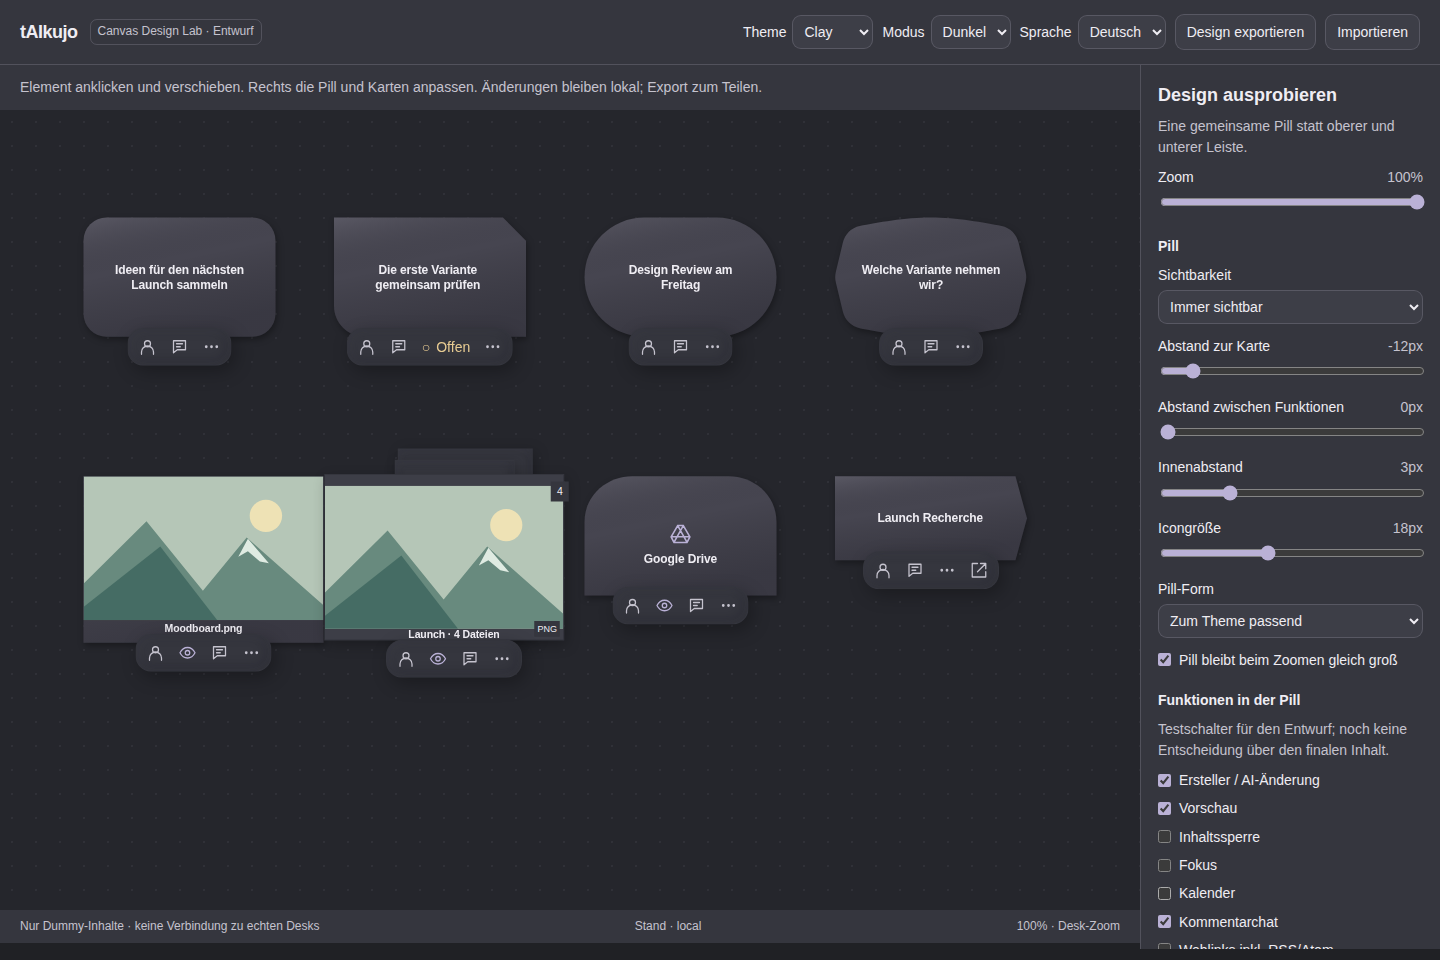
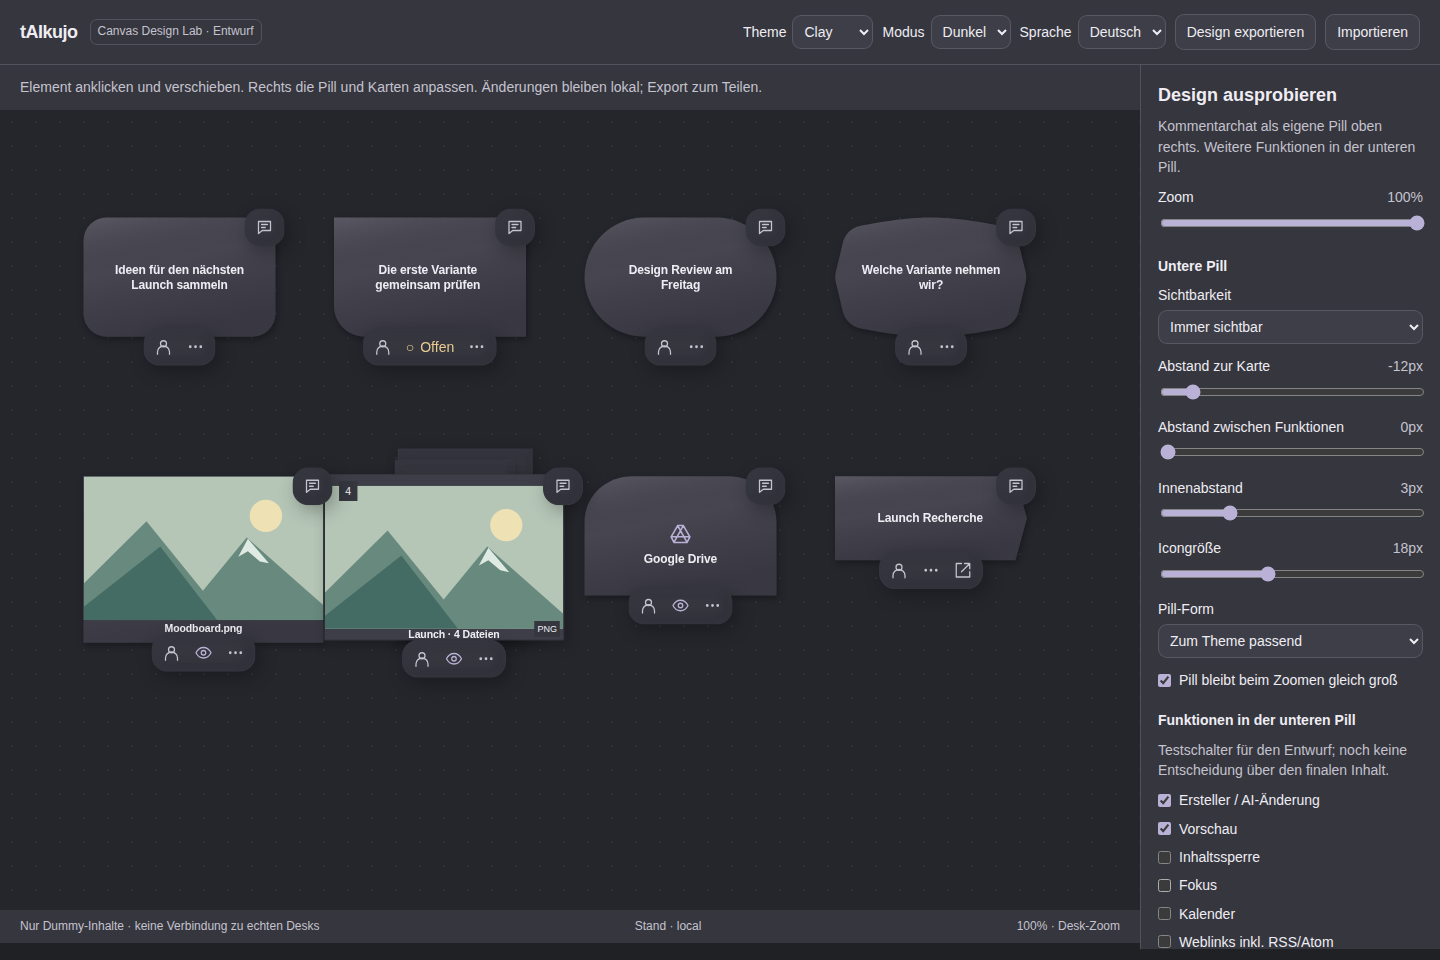
design: move comment chat into its own top-right pill

diff --git a/index.html b/index.html
@@ -1,5 +1,5 @@
 <!doctype html>
-<html lang="de" data-skin="clay" data-theme="dark" data-preview-revision="62d8ae0edd5b">
+<html lang="de" data-skin="clay" data-theme="dark" data-preview-revision="c5b5195cf4e4">
 <head>
 <meta charset="utf-8">
 <meta name="viewport" content="width=device-width,initial-scale=1">
@@ -324,6 +324,8 @@ main{display:grid;grid-template-columns:minmax(0,1fr) 300px;min-height:calc(100d
 .viewport{position:relative;flex:1;min-height:500px;max-height:calc(100dvh - 160px);overflow:auto;background-color:var(--canvas);background-image:radial-gradient(var(--canvas-grid) 1px,transparent 1px);background-size:24px 24px;overscroll-behavior:contain}
 .extent{position:relative;margin:34px}.world{position:absolute;left:0;top:0;width:1400px;height:860px;transform-origin:0 0;isolation:isolate}
 .area{position:absolute;inset:20px 20px 40px;border:1px dashed var(--accent);background:color-mix(in srgb,var(--accent) 4%,transparent);border-radius:var(--radius-lg);pointer-events:none}.area-label{position:absolute;top:-30px;left:14px;color:var(--muted)}
+.chat-pill-anchor{position:absolute;right:-12px;top:-12px;transform:scale(var(--pill-scale));transform-origin:100% 0;z-index:6;cursor:default;pointer-events:auto}
+.chat-pill{min-width:36px;justify-content:center}.chat-pill button{color:var(--text)}
 .node{position:absolute;width:var(--card-width);height:var(--card-height);touch-action:none;cursor:grab;user-select:none}.node.dragging{cursor:grabbing;z-index:20}.node.selected{z-index:10}
 .surface{width:100%;height:100%;position:relative;display:flex;align-items:center;justify-content:center;padding:4px 20px;background:transparent;border:0;border-radius:0}
 .node-shape{position:absolute;inset:0;width:100%;height:100%;overflow:visible;pointer-events:none;filter:var(--shadow-node)}
@@ -345,7 +347,7 @@ main{display:grid;grid-template-columns:minmax(0,1fr) 300px;min-height:calc(100d
 .stack-cover svg{width:100%;height:100%;max-height:100%;background:var(--panel-2)}.stack-cover-type{position:absolute;right:5px;bottom:4px;font-size:var(--type-caption-size);background:var(--panel);padding:2px 4px}
 .stack-cover-fallback{padding:18px;white-space:pre-line;text-align:left;color:var(--muted);font-family:var(--font-mono);font-size:14px}
 .node[data-kind="stack"] .file-title{position:relative;z-index:4}.node[data-kind="stack"].selected .stack-cover{border-color:var(--accent)}
-.stack-count{position:absolute;right:7px;top:7px;background:var(--panel);padding:3px 8px;border-radius:0;z-index:5}
+.stack-count{position:absolute;left:7px;top:7px;background:var(--panel);padding:3px 8px;border-radius:0;z-index:5}
 
 .pill-anchor{position:absolute;left:50%;top:calc(100% + var(--pill-offset));transform:translateX(-50%) scale(var(--pill-scale));transform-origin:50% 0;z-index:3;cursor:default;max-width:none}
 .pill{display:flex;align-items:center;gap:var(--pill-gap);padding:var(--pill-padding);border:1px solid var(--border-soft);border-radius:var(--pill-radius);background:var(--panel);box-shadow:var(--shadow-menu);white-space:nowrap;min-height:32px}
@@ -403,7 +405,7 @@ dialog{max-width:min(90vw,700px);width:640px;color:var(--text);background:var(--
 const VERSION=1, PREVIEW_REVISION=document.documentElement.dataset.previewRevision||'local', STORAGE='taikujo.canvas-design-lab.v1.'+PREVIEW_REVISION;
 const copy={
 revision:['Stand','Revision'],lab:['Canvas Design Lab · Entwurf','Canvas Design Lab · Draft'],theme:['Theme','Theme'],mode:['Modus','Mode'],dark:['Dunkel','Dark'],light:['Hell','Light'],language:['Sprache','Language'],export:['Design exportieren','Export design'],import:['Importieren','Import'],
-hint:['Element anklicken und verschieben. Rechts die Pill und Karten anpassen. Änderungen bleiben lokal; Export zum Teilen.','Click and drag an element. Adjust the pill and cards on the right. Changes stay local; export to share.'],dummy:['Nur Dummy-Inhalte · keine Verbindung zu echten Desks','Dummy content only · no connection to real Desks'],settings:['Design ausprobieren','Try the design'],local:['Eine gemeinsame Pill statt oberer und unterer Leiste.','One shared pill replaces the upper and lower bars.'],zoom:['Zoom','Zoom'],pill:['Pill','Pill'],visibility:['Sichtbarkeit','Visibility'],always:['Immer sichtbar','Always visible'],hover:['Bei Hover oder Auswahl','On hover or selection'],offset:['Abstand zur Karte','Distance from card'],gap:['Abstand zwischen Funktionen','Spacing between actions'],padding:['Innenabstand','Padding'],iconSize:['Icongröße','Icon size'],radius:['Pill-Form','Pill shape'],themeRadius:['Zum Theme passend','Match theme'],round:['Rund','Round'],square:['Eckig','Square'],constant:['Pill bleibt beim Zoomen gleich groß','Keep pill size constant while zooming'],functions:['Funktionen in der Pill','Pill actions'],functionsHint:['Testschalter für den Entwurf; noch keine Entscheidung über den finalen Inhalt.','Draft toggles; the final pill content is still undecided.'],creator:['Ersteller / AI-Änderung','Creator / AI change'],preview:['Vorschau','Preview'],lock:['Inhaltssperre','Content lock'],focus:['Fokus','Focus'],calendar:['Kalender','Calendar'],chat:['Kommentarchat','Comment chat'],links:['Weblinks inkl. RSS/Atom','Web links incl. RSS/Atom'],checklist:['Checklistenfortschritt','Checklist progress'],status:['Aufgabenstatus','Task status'],menu:['Weitere Funktionen','More actions'],elements:['Elemente','Elements'],width:['Kartenbreite','Card width'],height:['Kartenhöhe','Card height'],titleSize:['Titelgröße','Title size'],titleLines:['Titelzeilen','Title lines'],tracking:['Buchstabenabstand','Letter spacing'],area:['Bereich anzeigen','Show area'],selected:['Ausgewähltes Element','Selected element'],selectHint:['Klicke eine Karte an, um ihren Text zu testen.','Click a card to try different text.'],title:['Titel','Title'],note:['Notiz','Note'],taskState:['Aufgabenstatus','Task status'],open:['Offen','Open'],done:['Erledigt','Done'],reset:['Zurücksetzen','Reset'],close:['Schließen','Close'],saved:['Design als JSON exportiert.','Design exported as JSON.'],loaded:['Design importiert.','Design imported.'],invalid:['Diese Datei ist kein gültiger Design-Export.','This file is not a valid design export.'],importError:['Die Datei konnte nicht gelesen werden.','The file could not be read.'],unsaved:['Lokales Speichern nicht verfügbar. Bitte exportieren.','Local storage unavailable. Please export.'],research:['Recherche','Research'],empty:['Keine Notiz vorhanden.','No note yet.'],demoChat:['Alex: Schau dir bitte diese Variante an.\nAI Worker: Hier könnte später die Antwort stehen.','Alex: Please take a look at this version.\nAI Worker: A reply could appear here later.'],demoLinks:['Webseite · Beispiel-Link\nRSS/Atom · Beispiel-Feed mit Artikelliste\n\nIn diesem Entwurf wird nichts extern abgerufen.','Website · Example link\nRSS/Atom · Example feed with an article list\n\nThis draft makes no external requests.'],demoCalendar:['16. Oktober · Review\n18. Oktober · Freigabe','16 October · Review\n18 October · Approval'],demoMenu:['Eigenschaften, Freigaben und weitere Aktionen gestalten wir im nächsten Schritt.','We will design properties, permissions and other actions in the next step.'],desk:['Desk öffnen','Open Desk'],demoDesk:['Ein Desk-Verweis würde den verlinkten Desk öffnen.','A Desk reference would open the linked Desk.'],stack:['Stapel öffnen','Open stack'],demoStack:['Moodboard.png\nBriefing.md\nEntwurf.pdf\nFoto.heic','Moodboard.png\nBriefing.md\nDraft.pdf\nPhoto.heic']
+hint:['Element anklicken und verschieben. Rechts die Pill und Karten anpassen. Änderungen bleiben lokal; Export zum Teilen.','Click and drag an element. Adjust the pill and cards on the right. Changes stay local; export to share.'],dummy:['Nur Dummy-Inhalte · keine Verbindung zu echten Desks','Dummy content only · no connection to real Desks'],settings:['Design ausprobieren','Try the design'],local:['Kommentarchat als eigene Pill oben rechts. Weitere Funktionen in der unteren Pill.','Comment chat in its own top-right pill. Other actions in the lower pill.'],zoom:['Zoom','Zoom'],pill:['Untere Pill','Lower pill'],visibility:['Sichtbarkeit','Visibility'],always:['Immer sichtbar','Always visible'],hover:['Bei Hover oder Auswahl','On hover or selection'],offset:['Abstand zur Karte','Distance from card'],gap:['Abstand zwischen Funktionen','Spacing between actions'],padding:['Innenabstand','Padding'],iconSize:['Icongröße','Icon size'],radius:['Pill-Form','Pill shape'],themeRadius:['Zum Theme passend','Match theme'],round:['Rund','Round'],square:['Eckig','Square'],constant:['Pill bleibt beim Zoomen gleich groß','Keep pill size constant while zooming'],functions:['Funktionen in der unteren Pill','Lower pill actions'],functionsHint:['Testschalter für den Entwurf; noch keine Entscheidung über den finalen Inhalt.','Draft toggles; the final pill content is still undecided.'],creator:['Ersteller / AI-Änderung','Creator / AI change'],preview:['Vorschau','Preview'],lock:['Inhaltssperre','Content lock'],focus:['Fokus','Focus'],calendar:['Kalender','Calendar'],chat:['Kommentarchat','Comment chat'],links:['Weblinks inkl. RSS/Atom','Web links incl. RSS/Atom'],checklist:['Checklistenfortschritt','Checklist progress'],status:['Aufgabenstatus','Task status'],menu:['Weitere Funktionen','More actions'],elements:['Elemente','Elements'],width:['Kartenbreite','Card width'],height:['Kartenhöhe','Card height'],titleSize:['Titelgröße','Title size'],titleLines:['Titelzeilen','Title lines'],tracking:['Buchstabenabstand','Letter spacing'],area:['Bereich anzeigen','Show area'],selected:['Ausgewähltes Element','Selected element'],selectHint:['Klicke eine Karte an, um ihren Text zu testen.','Click a card to try different text.'],title:['Titel','Title'],note:['Notiz','Note'],taskState:['Aufgabenstatus','Task status'],open:['Offen','Open'],done:['Erledigt','Done'],reset:['Zurücksetzen','Reset'],close:['Schließen','Close'],saved:['Design als JSON exportiert.','Design exported as JSON.'],loaded:['Design importiert.','Design imported.'],invalid:['Diese Datei ist kein gültiger Design-Export.','This file is not a valid design export.'],importError:['Die Datei konnte nicht gelesen werden.','The file could not be read.'],unsaved:['Lokales Speichern nicht verfügbar. Bitte exportieren.','Local storage unavailable. Please export.'],research:['Recherche','Research'],empty:['Keine Notiz vorhanden.','No note yet.'],demoChat:['Alex: Schau dir bitte diese Variante an.\nAI Worker: Hier könnte später die Antwort stehen.','Alex: Please take a look at this version.\nAI Worker: A reply could appear here later.'],demoLinks:['Webseite · Beispiel-Link\nRSS/Atom · Beispiel-Feed mit Artikelliste\n\nIn diesem Entwurf wird nichts extern abgerufen.','Website · Example link\nRSS/Atom · Example feed with an article list\n\nThis draft makes no external requests.'],demoCalendar:['16. Oktober · Review\n18. Oktober · Freigabe','16 October · Review\n18 October · Approval'],demoMenu:['Eigenschaften, Freigaben und weitere Aktionen gestalten wir im nächsten Schritt.','We will design properties, permissions and other actions in the next step.'],desk:['Desk öffnen','Open Desk'],demoDesk:['Ein Desk-Verweis würde den verlinkten Desk öffnen.','A Desk reference would open the linked Desk.'],stack:['Stapel öffnen','Open stack'],demoStack:['Moodboard.png\nBriefing.md\nEntwurf.pdf\nFoto.heic','Moodboard.png\nBriefing.md\nDraft.pdf\nPhoto.heic']
 };
 // Original production geometry, copied from js/shapes.js; no CSS approximations.
 const SHAPE_GEOMETRY = {
@@ -430,10 +432,10 @@ function cardShape(card){
 }
 
 const specs={offset:[-16,24,1,'px'],gap:[0,14,1,'px'],padding:[0,12,1,'px'],iconSize:[14,24,1,'px'],width:[160,320,1,'px'],height:[120,260,1,'px'],titleSize:[14,20,1,'px'],titleLines:[1,5,1,''],tracking:[-.6,.2,.05,'px']};
-const actions=['creator','preview','lock','focus','calendar','chat','links','checklist','status','menu'];
+const actions=['creator','preview','lock','focus','calendar','links','checklist','status','menu'];
 const kinds=['note','task','event','decision','file','stack','tunnel','desk'];
 const icons={creator:'user',preview:'eye',lock:'lock',focus:'focus',calendar:'calendar',chat:'chat',links:'link',checklist:'list',menu:'more',desk:'open'};
-function defaults(){return {version:VERSION,skin:'clay',mode:'dark',language:'de',zoom:100,visibility:'always',radius:'theme',constant:true,area:false,offset:-12,gap:0,padding:3,iconSize:18,width:256,height:159,titleSize:16,titleLines:3,tracking:-.15,actions:['creator','preview','chat','status','menu'],cards:[
+function defaults(){return {version:VERSION,skin:'clay',mode:'dark',language:'de',zoom:100,visibility:'always',radius:'theme',constant:true,area:false,offset:-12,gap:0,padding:3,iconSize:18,width:256,height:159,titleSize:16,titleLines:3,tracking:-.15,actions:['creator','preview','status','menu'],cards:[
 {id:'note',kind:'note',title:'Ideen für den nächsten Launch sammeln',note:'Ein normales Element mit Notiz. Mehr Platz für den Titel, keine Leisten auf der Karte.',x:66,y:98},
 {id:'task',kind:'task',title:'Die erste Variante gemeinsam prüfen',note:'Eine Aufgabe mit unabhängigem Status und Checkliste.',status:'open',x:400,y:98},
 {id:'event',kind:'event',title:'Design Review am Freitag',note:'Ein Event als eigene Form.',x:734,y:98},
@@ -450,7 +452,7 @@ function validate(raw){
  }
  for(const [key,[min,max]] of Object.entries({...specs,zoom:[1,100]})){if(typeof raw[key]!=='number'||!Number.isFinite(raw[key])||raw[key]<min||raw[key]>max)throw Error(key);d[key]=raw[key];}
  for(const key of ['constant','area']){if(typeof raw[key]!=='boolean')throw Error(key);d[key]=raw[key];}
- if(!Array.isArray(raw.actions)||raw.actions.length>actions.length||new Set(raw.actions).size!==raw.actions.length||raw.actions.some(key=>!actions.includes(key)))throw Error('actions');d.actions=[...raw.actions];
+ if(!Array.isArray(raw.actions)||raw.actions.length>actions.length+1||new Set(raw.actions).size!==raw.actions.length||raw.actions.some(key=>!actions.includes(key)&&key!=='chat'))throw Error('actions');d.actions=raw.actions.filter(key=>key!=='chat');
  d.cards=d.cards.map((base,index)=>{const c=raw.cards[index];if(!c||c.id!==base.id||c.kind!==base.kind||!kinds.includes(c.kind)||typeof c.title!=='string'||c.title.length>160||typeof c.note!=='string'||c.note.length>2000)throw Error('card');for(const key of ['x','y'])if(!Number.isFinite(c[key])||c[key]<0||c[key]>1280)throw Error(key);if(base.kind==='task'&&!['open','done'].includes(c.status))throw Error('status');return {...base,title:c.title,note:c.note,x:c.x,y:c.y,...(base.kind==='task'?{status:c.status}:{})};});return d;
 }
 let state=defaults(),selected=null,storageAvailable=true;
@@ -478,9 +480,16 @@ function apply(){
  $('revision-readout').textContent=t('revision')+' · '+PREVIEW_REVISION;$('zoom-value').textContent=state.zoom+'%';$('zoom-readout').textContent=state.zoom+'% · '+(state.language==='de'?'Desk-Zoom':'Desk zoom');
  renderCards();selectionControls();
 }
+function chatPill(card){
+ const anchor=document.createElement('div');anchor.className='chat-pill-anchor';
+ const pill=document.createElement('div');pill.className='pill chat-pill';pill.setAttribute('aria-label',t('chat'));
+ const button=document.createElement('button');button.type='button';button.dataset.action='chat';button.setAttribute('aria-label',t('chat'));button.innerHTML=svg('chat');
+ const tooltip=document.createElement('span');tooltip.className='tooltip';tooltip.textContent=t('chat');button.append(tooltip);button.addEventListener('click',()=>action(card,'chat'));
+ pill.append(button);anchor.append(pill);return anchor;
+}
 function renderCards(){
  const world=$('world');world.replaceChildren();
- if(state.area){const area=document.createElement('div');area.className='area';const label=document.createElement('span');label.className='area-label';label.textContent=t('research');area.append(label);world.append(area);}
+ if(state.area){const area=document.createElement('div');area.className='area';const label=document.createElement('span');label.className='area-label';label.textContent=t('research');area.append(label,chatPill({id:'area',kind:'area',title:t('research'),note:''}));world.append(area);}
  for(const card of state.cards){
   const node=document.createElement('article');node.className='node'+(selected===card.id?' selected':'');node.dataset.id=card.id;node.dataset.kind=card.kind;node.dataset.pillVisibility=state.visibility;node.tabIndex=0;node.setAttribute('aria-label',card.title);node.style.left=card.x+'px';node.style.top=card.y+'px';
   const size=cardSize(card);node.style.width=size.width+'px';node.style.height=size.height+'px';node.insertAdjacentHTML('beforeend',cardShape(card));
@@ -507,7 +516,7 @@ function renderCards(){
    const tooltip=document.createElement('span');tooltip.className='tooltip';tooltip.textContent=t(key);btn.append(tooltip);btn.addEventListener('click',()=>action(card,key));pill.append(btn);
   }
   if(card.kind==='desk'){const btn=document.createElement('button');btn.type='button';btn.setAttribute('aria-label',t('desk'));btn.innerHTML=svg('open');btn.onclick=()=>action(card,'desk');pill.append(btn);}
-  if(pill.children.length){anchor.append(pill);node.append(anchor);}world.append(node);
+  if(pill.children.length){anchor.append(pill);node.append(anchor);}node.append(chatPill(card));world.append(node);
   node.addEventListener('pointerdown',event=>startDrag(event,node,card));node.addEventListener('keydown',event=>{if(event.target!==node)return;if(event.key==='Enter'||event.key===' '){event.preventDefault();choose(card.id);}});
  }
 }

diff --git a/README.md b/README.md
@@ -2,7 +2,8 @@
 
 **[Open the live playground](https://mbd02.github.io/taikujo-canvas-design/)**
 
-A standalone design draft with dummy elements and one shared indicator pill.
+A standalone design draft with dummy elements, a separate top-right comment
+chat pill on every card and a lower pill for the remaining actions.
 Original app SVG outlines and starting dimensions, including the task contour,
 rounded decision, capsule event, tunnel arch, flat Desk ribbon and square files.
 Five material themes, light/dark mode, DE/EN, zoom, movable cards and editable
